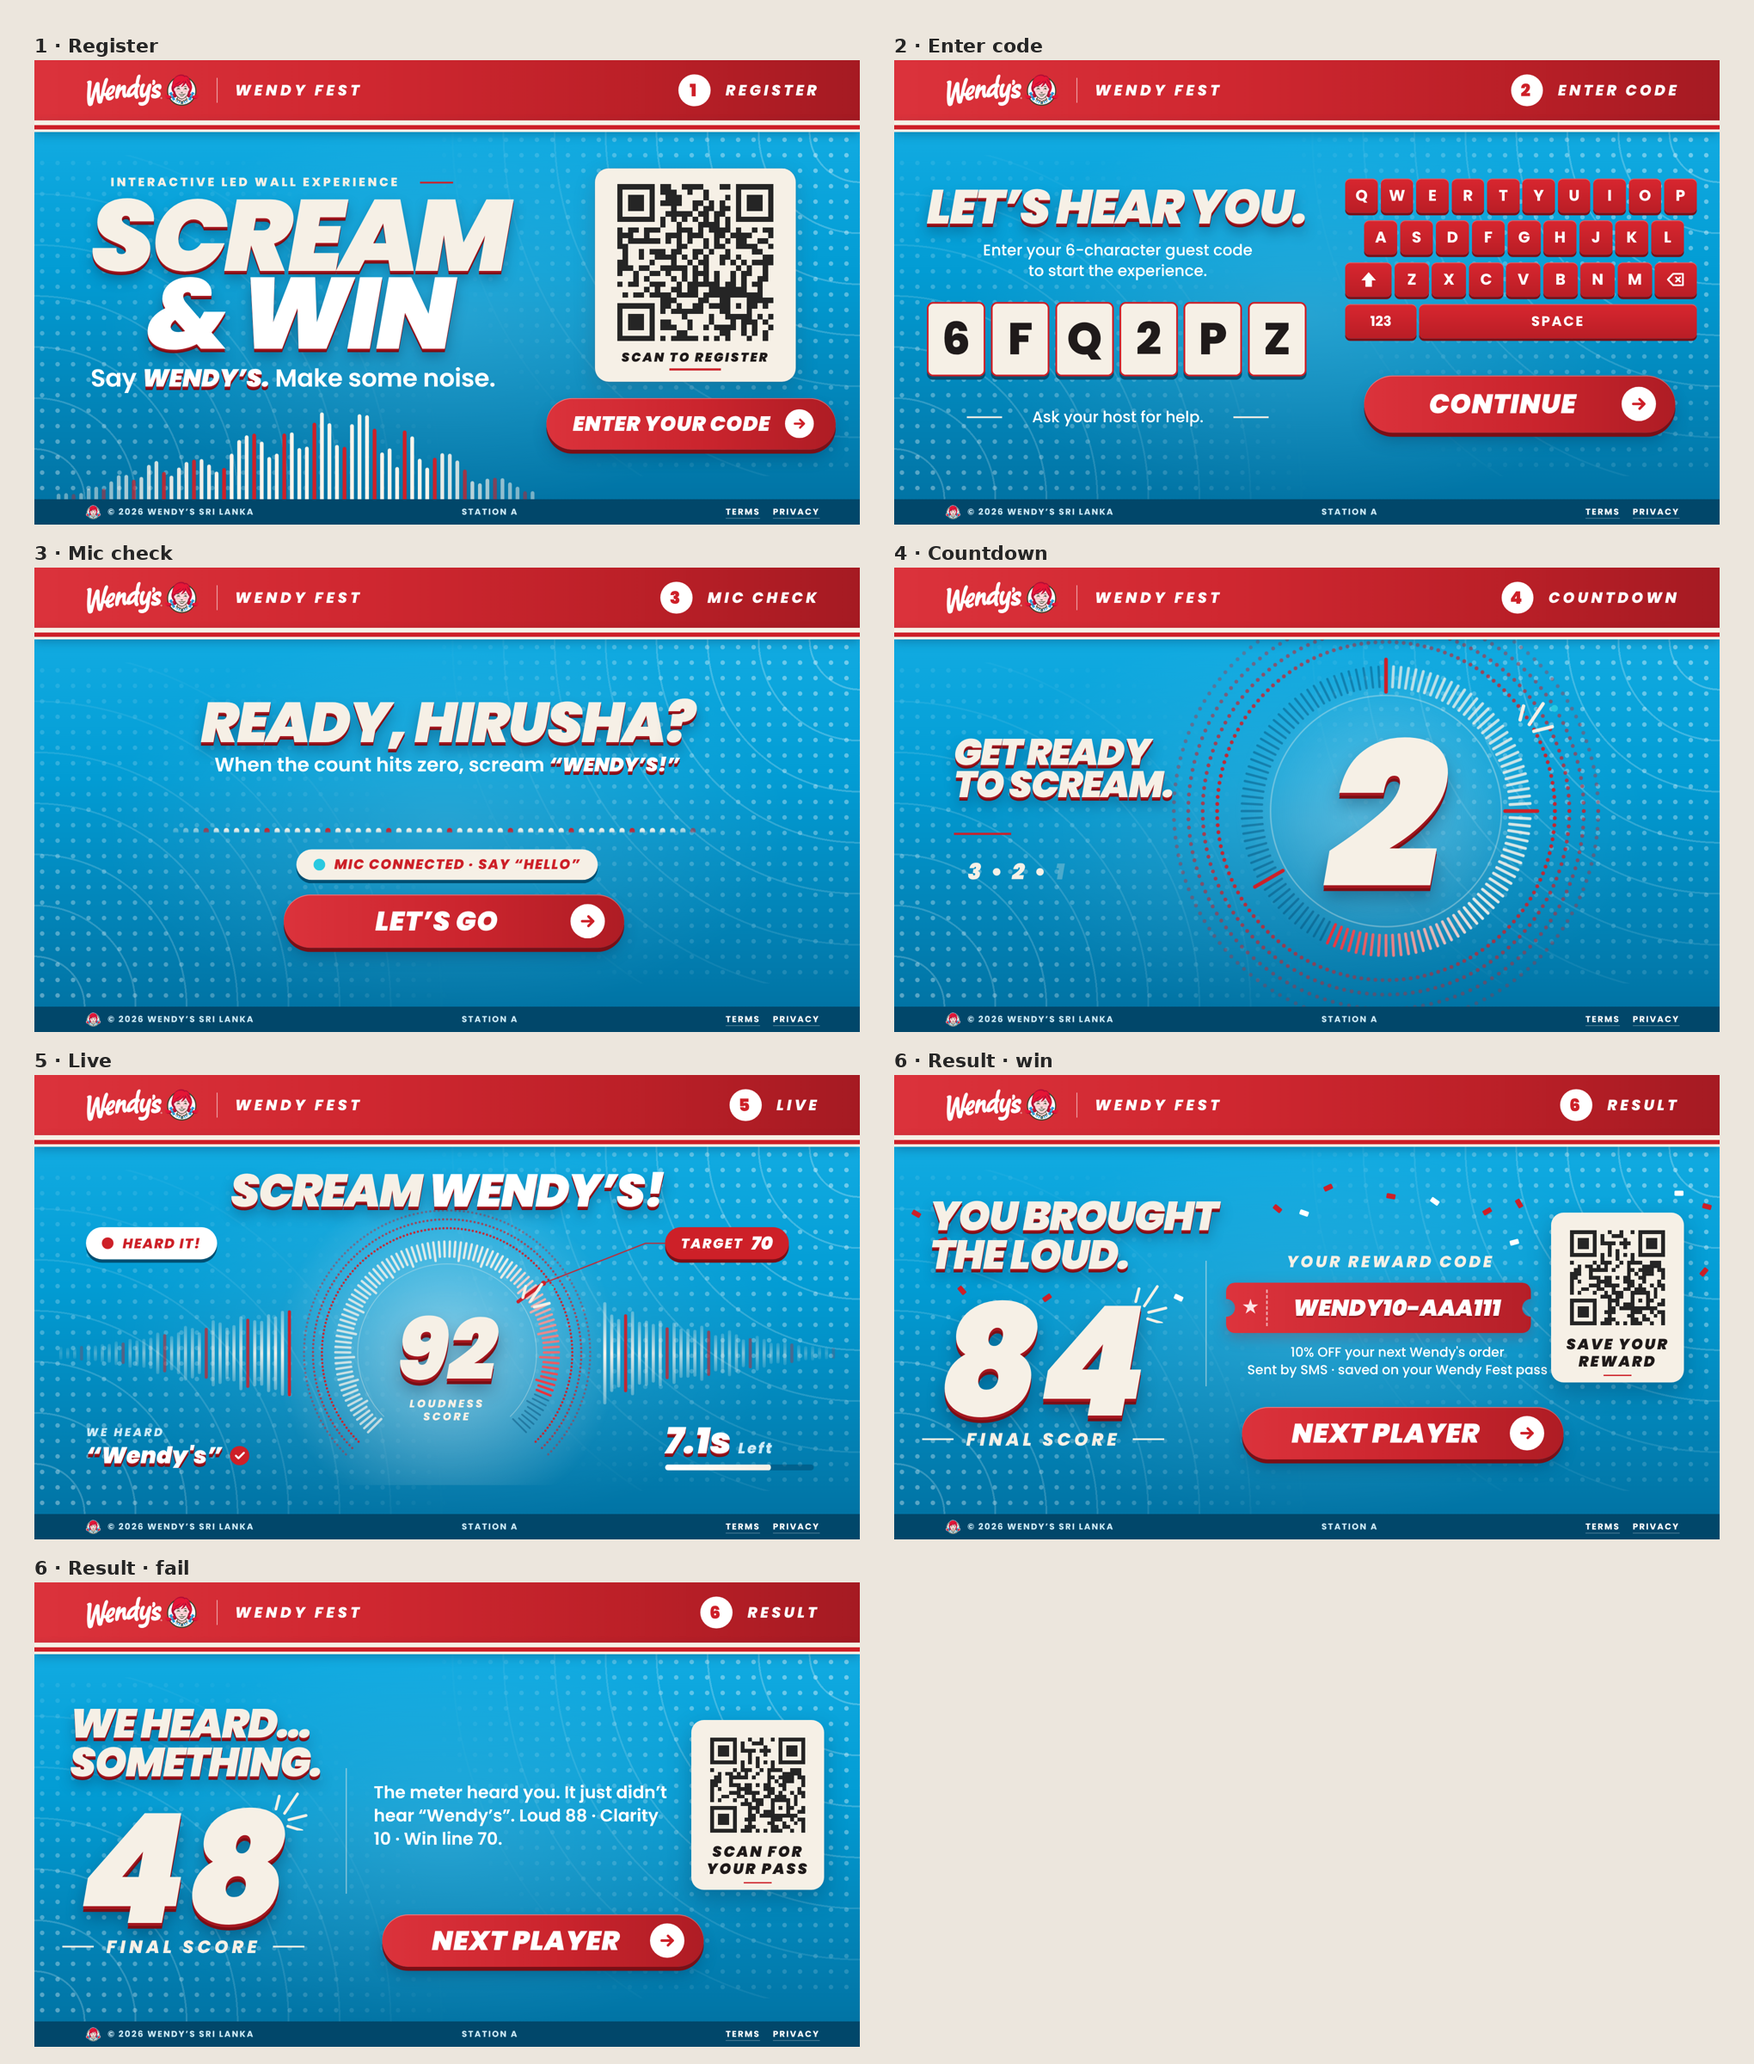
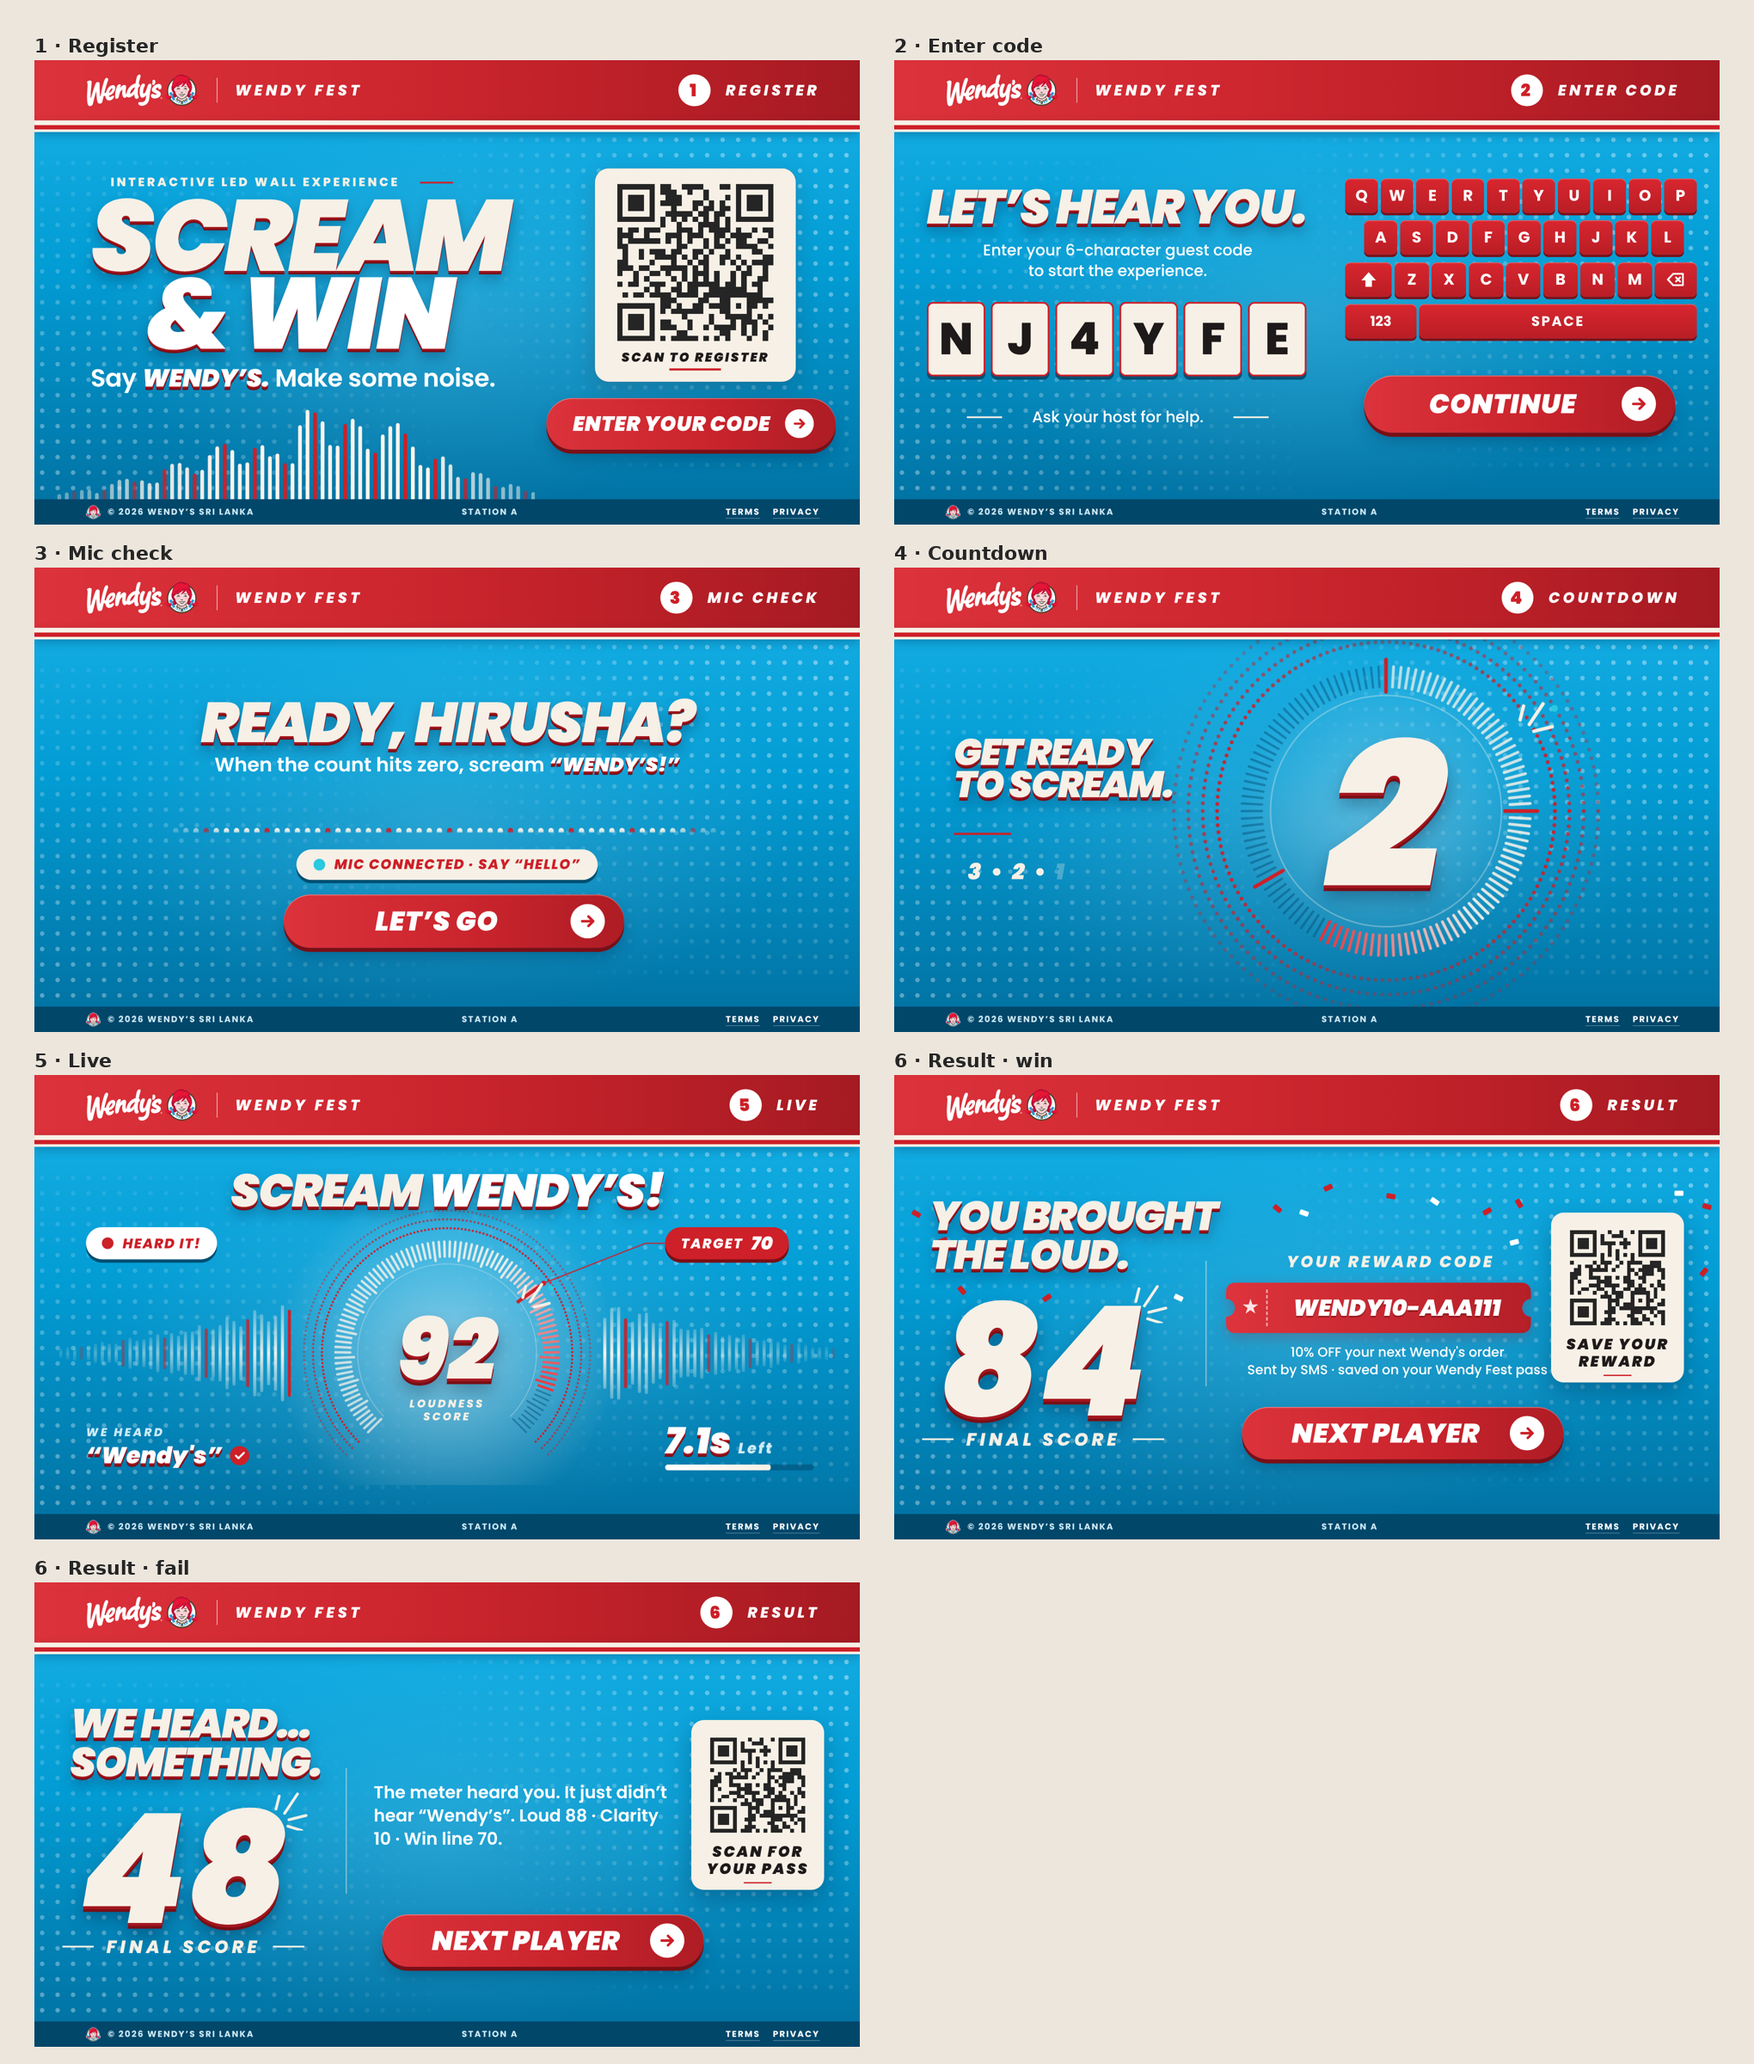
Retro Blue: corner texture is halftone dots only (arcs removed)
Claude-Session: https://claude.ai/code/session_015MHPvZ3kkn8jw5YatKY7r4

diff --git a/public/kiosk/scream-cream.html b/public/kiosk/scream-cream.html
@@ -282,14 +282,14 @@ body { color:#fff; }
 #s-result .vdiv { background:rgba(246,240,230,.45); }
 .k-input { background:#F6F0E6; }
 
-/* corner texture: big sweeping arcs + bold fading halftone dots (from the guest header), in white on blue */
+/* corner texture: bold fading halftone dots (from the guest header), in white on blue */
 .texB { position:absolute; inset:0; z-index:1; pointer-events:none; overflow:hidden; }
 .texB i { position:absolute; width:calc(820 * var(--u)); height:calc(600 * var(--u)); }
 .texB i.tr { right:0; top:calc(125 * var(--u));
-  background:repeating-radial-gradient(circle at 100% 0, transparent 0 calc(86 * var(--u)), rgba(255,255,255,.26) calc(86 * var(--u)) calc(89 * var(--u))), radial-gradient(circle, rgba(255,255,255,.42) calc(3.6 * var(--u)), transparent calc(4.3 * var(--u))) 0 0 / calc(27 * var(--u)) calc(27 * var(--u));
+  background:radial-gradient(circle, rgba(255,255,255,.42) calc(3.6 * var(--u)), transparent calc(4.3 * var(--u))) 0 0 / calc(27 * var(--u)) calc(27 * var(--u));
   -webkit-mask:radial-gradient(circle at 100% 0, #000 0, rgba(0,0,0,.8) 30%, transparent 75%); mask:radial-gradient(circle at 100% 0, #000 0, rgba(0,0,0,.8) 30%, transparent 75%); }
 .texB i.bl { left:0; bottom:calc(44 * var(--u));
-  background:repeating-radial-gradient(circle at 0 100%, transparent 0 calc(86 * var(--u)), rgba(255,255,255,.22) calc(86 * var(--u)) calc(89 * var(--u))), radial-gradient(circle, rgba(255,255,255,.36) calc(3.6 * var(--u)), transparent calc(4.3 * var(--u))) 0 0 / calc(27 * var(--u)) calc(27 * var(--u));
+  background:radial-gradient(circle, rgba(255,255,255,.36) calc(3.6 * var(--u)), transparent calc(4.3 * var(--u))) 0 0 / calc(27 * var(--u)) calc(27 * var(--u));
   -webkit-mask:radial-gradient(circle at 0 100%, #000 0, rgba(0,0,0,.75) 28%, transparent 72%); mask:radial-gradient(circle at 0 100%, #000 0, rgba(0,0,0,.75) 28%, transparent 72%); }
 </style>
 </head>
